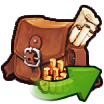
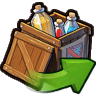
boost items changes

diff --git a/js/web/boost_inventory/js/boost_inventory.js b/js/web/boost_inventory/js/boost_inventory.js
@@ -127,8 +127,8 @@ let BoostInventory = {
 
 		let streetImg = {
 			0:"",
-			1:`</span><img src="${srcLinks.get('/shared/icons/road_required.png',true)}" alt="">`,
-			2:`</span><img src="${srcLinks.get('/shared/icons/street_required.png',true)}" alt="">`,
+			1:`</span><img src="${srcLinks.get('/shared/icons/road_required.png',true)}" data-original-title="${i18n('Boxes.CombatCalculator.RoadRequired')}">`,
+			2:`</span><img src="${srcLinks.get('/shared/icons/street_required.png',true)}" data-original-title="${i18n('Boxes.CombatCalculator.StreetRequired')}">`,
 		}
 		BoostInventory.Buildings.sort((a,b)=>b.score-a.score)
 		for(let b of BoostInventory.Buildings){
@@ -160,5 +160,6 @@ let BoostInventory = {
 		c.push(`</table>`)
 
 		$('#BoostInventoryBody').html(c.join(''))
+		$('#BoostInventoryBody img').tooltip()
 	},
 }

diff --git a/js/web/boost_inventory/css/boost_inventory.css b/js/web/boost_inventory/css/boost_inventory.css
@@ -27,10 +27,6 @@
     margin-left: 9px;
 }
 
-#BoostInventory td:nth-child(3) img {
-    zoom: 2;
-}
-
 #BoostInventory thead {
     position: sticky;
     top: 0px;
